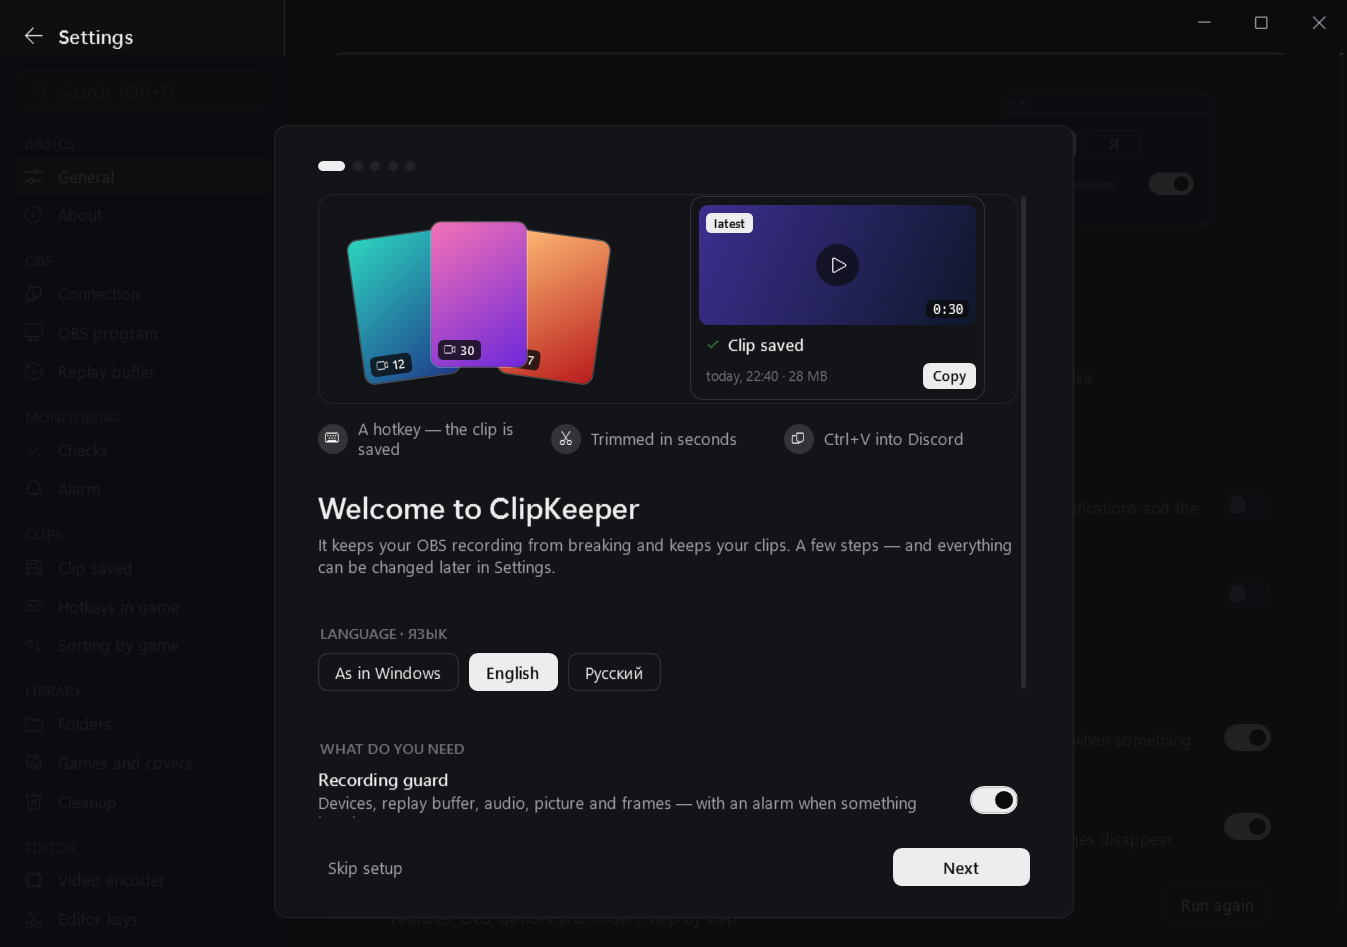
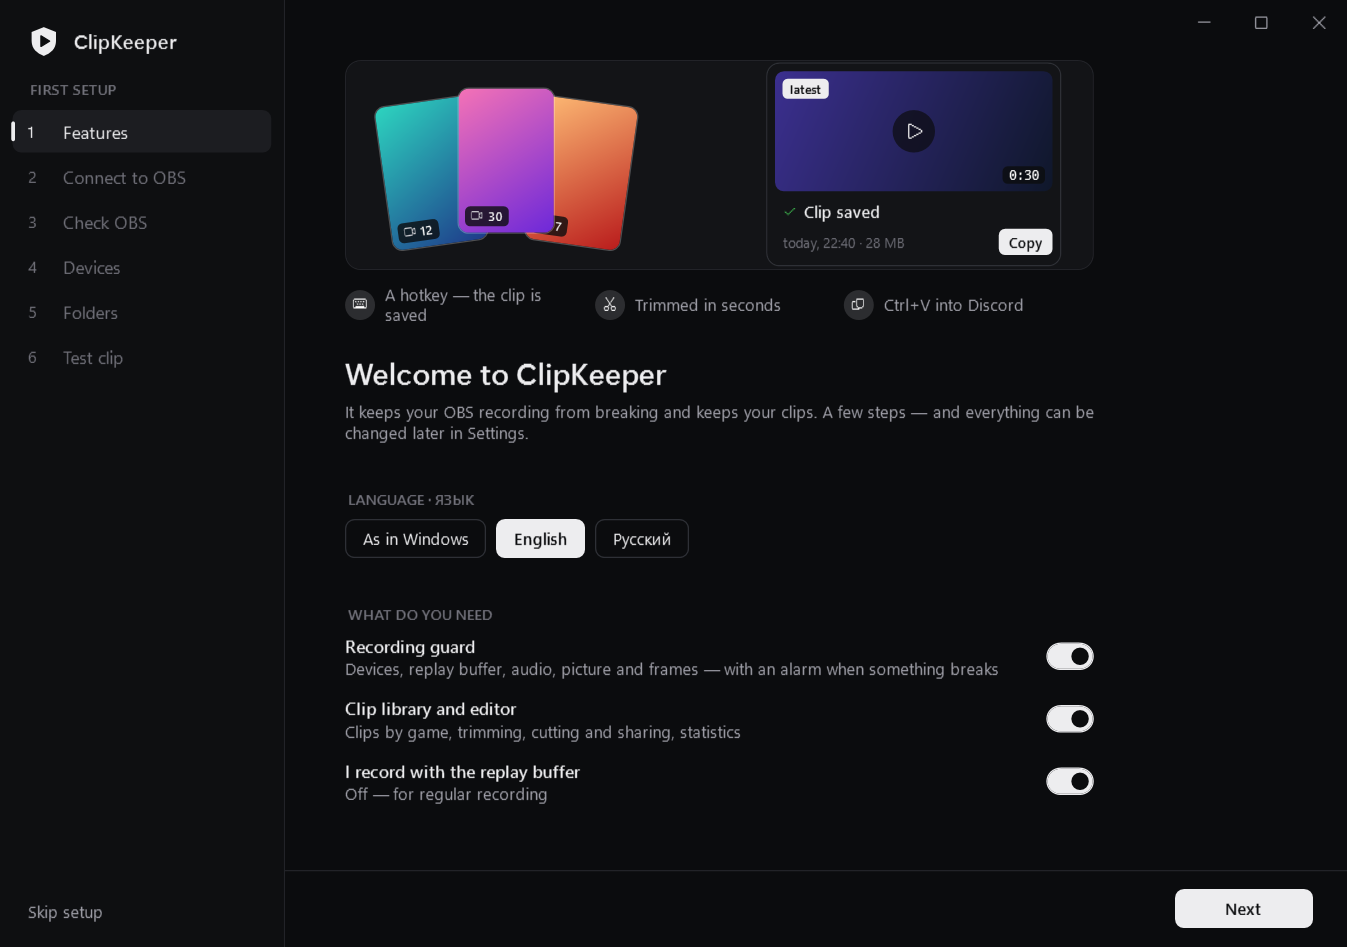
Setup: the whole window, with the steps on the left
A small card over a dimmed app looked like a dialog to dismiss. The setup now hides the app behind it,
lists its steps where the pages are (as the settings do), and a passed step opens again with a click.

diff --git a/src/MainWindowSetup.cs b/src/MainWindowSetup.cs
@@ -6,12 +6,16 @@ using System.Windows;
 using System.Windows.Controls;
 using System.Windows.Media;
 using System.Windows.Media.Animation;
+using System.Windows.Controls.Primitives;
+using System.Windows.Data;
+using System.Windows.Shell;
 using Ellipse = System.Windows.Shapes.Ellipse;
+using SPath = System.Windows.Shapes.Path;
 
 namespace DeviceGuard
 {
-    // The first-run setup: a card over the main window that walks through language and features, the OBS link,
-    // devices and folders. It shows until finished or skipped (settings.json: SetupDone) and can be run again
+    // The first-run setup: it takes the whole window (the pages are hidden behind it) and walks through language and
+    // features, the OBS link, devices and folders, with the steps listed on the left. It shows until finished or skipped (settings.json: SetupDone) and can be run again
     // from Settings → Features.
     partial class MainWindow
     {
@@ -25,7 +29,9 @@ namespace DeviceGuard
         public void ShowSetup()
         {
             if (setup != null) return;
-            setup = new Grid { Background = Wpf.Br("#E60B0C0E"), Margin = new Thickness(0, 44, 0, 0) };
+            setup = new Grid { Background = Wpf.Res<Brush>("Bg") };
+            setup.ColumnDefinitions.Add(new ColumnDefinition { Width = new GridLength(228) });
+            setup.ColumnDefinitions.Add(new ColumnDefinition());
             Grid.SetColumnSpan(setup, 2);
             Panel.SetZIndex(setup, 50);
             F<Grid>("Root").Children.Add(setup);
@@ -73,44 +79,82 @@ namespace DeviceGuard
             setupClip = null;
             StopKeyGrab();
             setup.Children.Clear();
-
-            var card = new Border
-            {
-                Style = S("CardBorder"), Width = 640, Padding = new Thickness(34, 28, 34, 24),
-                HorizontalAlignment = HorizontalAlignment.Center, VerticalAlignment = VerticalAlignment.Top, Margin = new Thickness(24, 56, 24, 24),
-            };
-            var dock = new DockPanel();
-
-            // progress: one dot per step
-            var dots = new StackPanel { Orientation = Orientation.Horizontal, Margin = new Thickness(0, 0, 0, 18) };
-            for (int i = 0; i < setupSteps.Count; i++)
-                dots.Children.Add(new Border
-                {
-                    Width = i == setupStep ? 22 : 8, Height = 8, CornerRadius = new CornerRadius(4), Margin = new Thickness(0, 0, 6, 0),
-                    Background = i <= setupStep ? Wpf.Res<Brush>("Brand") : Wpf.Res<Brush>("Line"),
-                });
-            DockPanel.SetDock(dots, Dock.Top);
-            dock.Children.Add(dots);
-
-            // buttons: skip on the left, back / next on the right
-            var nav = new Grid { Margin = new Thickness(0, 24, 0, 0) };
-            nav.ColumnDefinitions.Add(new ColumnDefinition());
-            nav.ColumnDefinitions.Add(new ColumnDefinition { Width = GridLength.Auto });
             bool lastStep = setupStep == setupSteps.Count - 1;
+
+            // ── the left column: the steps instead of the pages, as the settings do with their sections ──
+            var side = new DockPanel();
+            var logo = new StackPanel { Orientation = Orientation.Horizontal, Margin = new Thickness(22, 20, 0, 18) };
+            var mark = new Grid { Width = 40, Height = 40 };
+            mark.Children.Add(new SPath { Data = Geometry.Parse("M20,2.5 L35,8.5 V19.5 C35,29 28.5,35 20,38 C11.5,35 5,29 5,19.5 V8.5 Z"), Fill = Wpf.Res<Brush>("Brand") });
+            mark.Children.Add(new SPath { Data = Geometry.Parse("M16.5,13.2 L27.2,19.8 L16.5,26.4 Z"), Fill = Wpf.Res<Brush>("OnBrand"), Stroke = Wpf.Res<Brush>("OnBrand"),
+                                          StrokeThickness = 1.6, StrokeLineJoin = PenLineJoin.Round });
+            logo.Children.Add(new Viewbox { Width = 26, Height = 26, Child = mark });
+            logo.Children.Add(new TextBlock { Text = "ClipKeeper", FontFamily = Wpf.Res<FontFamily>("DisplayFont"), FontSize = 15.5, FontWeight = FontWeights.SemiBold,
+                                              Margin = new Thickness(11, 0, 0, 0), VerticalAlignment = VerticalAlignment.Center });
+            DockPanel.SetDock(logo, Dock.Top);
+            side.Children.Add(logo);
+            var caption = new TextBlock { Text = L.T("FIRST SETUP", "ПЕРВАЯ НАСТРОЙКА"), Style = S("Caption"), Margin = new Thickness(24, 0, 0, 8) };
+            DockPanel.SetDock(caption, Dock.Top);
+            side.Children.Add(caption);
             if (!lastStep)
             {
-                var skip = new Button { Style = S("BtnLink"), Content = L.T("Skip setup", "Пропустить настройку"), HorizontalAlignment = HorizontalAlignment.Left };
+                var skip = new Button { Style = S("BtnLink"), Content = L.T("Skip setup", "Пропустить настройку"), HorizontalAlignment = HorizontalAlignment.Left,
+                                        Margin = new Thickness(14, 0, 0, 16) };
                 skip.Click += (s, e) => CloseSetup(false);
-                nav.Children.Add(skip);
+                DockPanel.SetDock(skip, Dock.Bottom);
+                side.Children.Add(skip);
             }
-            var right = new StackPanel { Orientation = Orientation.Horizontal };
-            Grid.SetColumn(right, 1);
+            // passed steps have a check and open again with a click; the ones ahead are only listed
+            var list = new StackPanel();
+            for (int i = 0; i < setupSteps.Count; i++)
+            {
+                int k = i;
+                bool done = i < setupStep, ahead = i > setupStep;
+                var row = new StackPanel { Orientation = Orientation.Horizontal };
+                row.Children.Add(done ? new TextBlock { Style = S("Icon"), Text = "", FontSize = 13, Width = 28, Foreground = Wpf.Res<Brush>("Ok"), VerticalAlignment = VerticalAlignment.Center }
+                                      : new TextBlock { Text = (i + 1).ToString(), FontSize = 12.5, Width = 28, VerticalAlignment = VerticalAlignment.Center });
+                row.Children.Add(new TextBlock { Text = StepName(setupSteps[i]) });
+                var item = new RadioButton { Style = S("Nav"), GroupName = "setup", IsChecked = i == setupStep, Content = row };
+                if (ahead) { item.Foreground = Wpf.Res<Brush>("Muted"); item.IsHitTestVisible = false; }
+                item.Checked += (s, e) => W.Dispatcher.BeginInvoke(new Action(() => { if (setup == null) return; setupStep = k; ShowSetupStep(); }));
+                list.Children.Add(item);
+            }
+            side.Children.Add(list);
+            setup.Children.Add(new Border { Background = Wpf.Res<Brush>("Side"), BorderBrush = Wpf.Res<Brush>("Line"), BorderThickness = new Thickness(0, 0, 1, 0), Child = side });
+
+            // ── the step: the window buttons, the step itself, back / next at the bottom ──
+            var main = new Grid();
+            main.RowDefinitions.Add(new RowDefinition { Height = new GridLength(40) });
+            main.RowDefinitions.Add(new RowDefinition());
+            main.RowDefinitions.Add(new RowDefinition { Height = GridLength.Auto });
+            Grid.SetColumn(main, 1);
+
+            // the window's own buttons are under the setup: these stand in for them
+            var chrome = new StackPanel { Orientation = Orientation.Horizontal, HorizontalAlignment = HorizontalAlignment.Right, VerticalAlignment = VerticalAlignment.Top };
+            WindowChrome.SetIsHitTestVisibleInChrome(chrome, true);
+            foreach (var name in new[] { "BtnMin", "BtnMax", "BtnClose" })
+            {
+                var real = F<Button>(name);
+                var b = new Button { Style = S(name == "BtnClose" ? "ChromeClose" : "ChromeBtn") };
+                b.SetBinding(ContentControl.ContentProperty, new Binding("Content") { Source = real });
+                b.Click += (s, e) => real.RaiseEvent(new RoutedEventArgs(ButtonBase.ClickEvent));
+                chrome.Children.Add(b);
+            }
+            main.Children.Add(chrome);
+
+            var body = new StackPanel { MaxWidth = 600, HorizontalAlignment = HorizontalAlignment.Left, Margin = new Thickness(48, 8, 48, 28) };
+            setupSteps[setupStep](body);
+            var scroll = new ScrollViewer { Content = body, VerticalScrollBarVisibility = ScrollBarVisibility.Auto, HorizontalScrollBarVisibility = ScrollBarVisibility.Disabled };
+            Grid.SetRow(scroll, 1);
+            main.Children.Add(scroll);
+
+            var nav = new StackPanel { Orientation = Orientation.Horizontal, HorizontalAlignment = HorizontalAlignment.Right };
             if (setupStep > 0)
             {
                 var back = Btn(null, L.T("Back", "Назад"), "BtnGhost");
                 back.Margin = new Thickness(0, 0, 8, 0);
                 back.Click += (s, e) => { setupStep--; ShowSetupStep(); };
-                right.Children.Add(back);
+                nav.Children.Add(back);
             }
             var next = Btn(null, lastStep ? L.T("Finish", "Готово") : L.T("Next", "Далее"), "BtnPrimary");
             next.MinWidth = 110;
@@ -120,17 +164,27 @@ namespace DeviceGuard
                 setupStep++;
                 ShowSetupStep();
             };
-            right.Children.Add(next);
-            nav.Children.Add(right);
-            DockPanel.SetDock(nav, Dock.Bottom);
-            dock.Children.Add(nav);
-
-            var body = new StackPanel();
-            setupSteps[setupStep](body);
-            dock.Children.Add(new ScrollViewer { Content = body, VerticalScrollBarVisibility = ScrollBarVisibility.Auto, MaxHeight = 560 });
-            card.Child = dock;
-            setup.Children.Add(card);
+            nav.Children.Add(next);
+            var bar = new Border { BorderBrush = Wpf.Res<Brush>("Line"), BorderThickness = new Thickness(0, 1, 0, 0), Padding = new Thickness(48, 14, 28, 16), Child = nav };
+            Grid.SetRow(bar, 2);
+            main.Children.Add(bar);
+            setup.Children.Add(main);
             if (last != null && setupLive != null) setupLive(last);
+        }
+
+        // the step's name in the list on the left
+        static string StepName(Action<StackPanel> step)
+        {
+            switch (step.Method.Name)
+            {
+                case "StepWelcome": return L.T("Features", "Возможности");
+                case "StepObs": return L.T("Connect to OBS", "Подключение к OBS");
+                case "StepCheck": return L.T("Check OBS", "Проверка OBS");
+                case "StepDevices": return L.T("Devices", "Устройства");
+                case "StepFolders": return L.T("Folders", "Папки");
+                case "StepTestClip": return L.T("Test clip", "Тестовый клип");
+                default: return L.T("Done", "Готово");
+            }
         }
 
         // called from Update once a second

diff --git a/CHANGELOG.md b/CHANGELOG.md
@@ -32,6 +32,8 @@ The format follows [Keep a Changelog](https://keepachangelog.com/en/1.1.0/); ver
 - Sharing minutes of video into a small limit (Discord's 10 MB) now fits: the sound drops to 64 kbps and the picture to
   480p instead of going over the limit.
 - Drop-down menus have rounded corners.
+- The first-run setup takes the whole window instead of a small card over the app, with its steps listed on the
+  left; a passed step opens again with a click.
 - A day's header in the library ("Today · 3 clips · 7 min") counts the whole day, and a folder's in the search the
   whole folder, not only the clips loaded so far.
 - After the library is first opened, ready and collection clips not read yet are read quietly in the background, so
